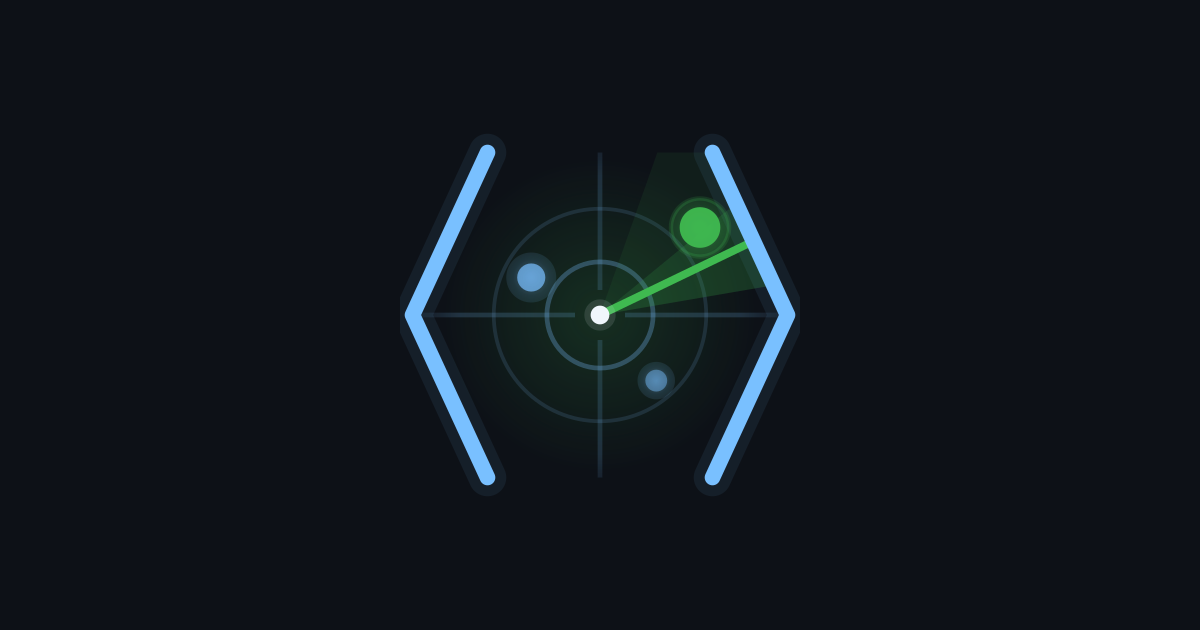
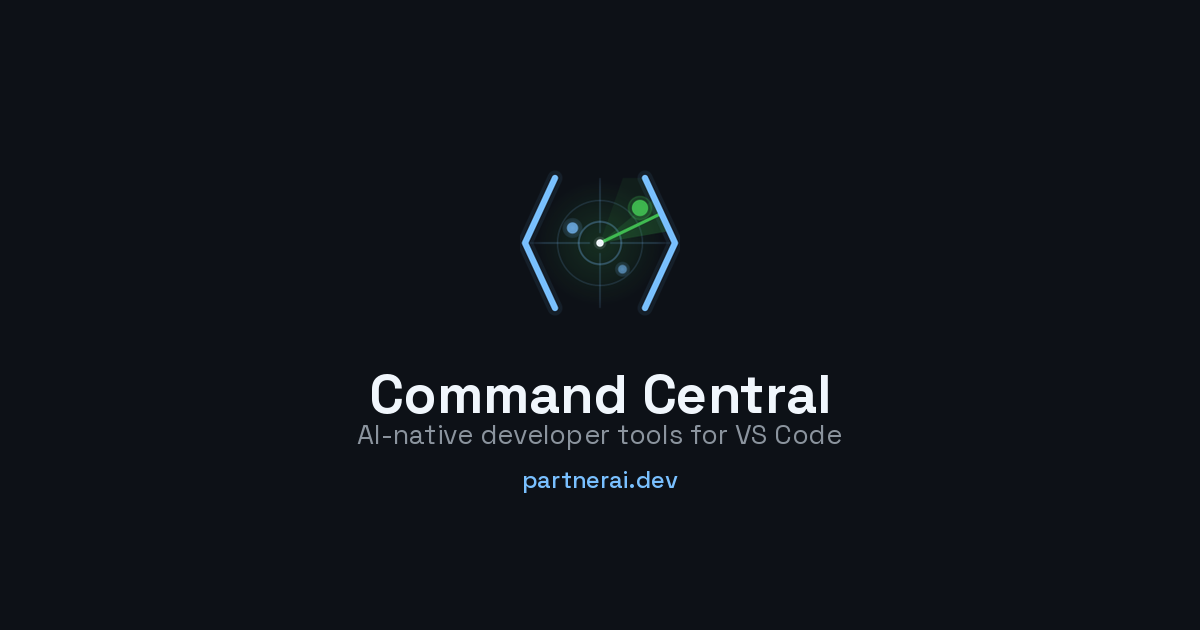
feat: brand typography (Space Grotesk), social preview + og-card with tagline

Changed region(s): [[0.3083, 0.2111, 0.7092, 0.7841]]

diff --git a/docs/TYPOGRAPHY.md b/docs/TYPOGRAPHY.md
@@ -1,0 +1,190 @@
+# Typography — Partner AI Brand Standard
+
+> v1.0 — 2026-02-22. Canonical reference for all Partner AI typography.
+
+## Brand Typeface: Space Grotesk
+
+**Space Grotesk** is the official display and branding typeface for Partner AI and all its products.
+
+- **Source:** [Google Fonts](https://fonts.google.com/specimen/Space+Grotesk)
+- **Designer:** Florian Karsten (derived from Space Mono)
+- **License:** SIL Open Font License 1.1 — free for web, print, marketing, embedding
+- **Variable font:** Yes (weight axis 300–700)
+- **Static weights used:** Light (300), Regular (400), Medium (500), SemiBold (600), Bold (700)
+
+### Why Space Grotesk
+
+Space Grotesk was chosen after evaluating five finalists (Space Grotesk, Geist Sans, Sora, Outfit, IBM Plex Sans) against Partner AI's brand requirements:
+
+1. **Technical DNA.** Born from Space Mono — a monospace coding font. The geometric letterforms carry developer credibility without needing to literally be monospace.
+
+2. **Distinctive character.** The slightly unconventional `a`, `g`, and `R` give it personality in a sea of Inter/Helvetica developer sites. It's opinionated — like an engineering partner with strong (good) opinions about architecture.
+
+3. **Dark-mode native.** Open counters and clean geometry render crisply on #0D1117 backgrounds. Excellent contrast at all sizes.
+
+4. **Works everywhere.** Strong performance in ALL CAPS (`PARTNER AI`), Mixed Case (`Command Central`), and smaller tagline sizes. Holds up from 16px body to 96px hero headlines.
+
+5. **"Partner" + "AI" balance.** Warm enough for "partner" (human, approachable), precise enough for "AI" (technical, engineered). This balance is the hardest thing to get right, and Space Grotesk nails it.
+
+---
+
+## Usage Rules
+
+### Where Space Grotesk appears
+
+| Context | Weight | Size (web) | Notes |
+|---------|--------|------------|-------|
+| "Partner AI" wordmark | Bold (700) | — | Used in logo lockups, social cards |
+| Product names ("Command Central") | Bold (700) | 36–56px | Hero headlines, social previews |
+| Landing page headlines | SemiBold (600) | 32–48px | Section headers, feature titles |
+| Subheadlines / taglines | Regular (400) | 20–28px | Below headlines, card descriptions |
+| Navigation wordmark | Medium (500) | 18–20px | Site header "Partner AI" |
+
+### Where Space Grotesk does NOT appear
+
+- **Body text / paragraphs.** Use the system font stack or Inter for long-form content.
+- **Code samples.** Use a monospace font (JetBrains Mono, Fira Code, etc.).
+- **VS Code UI elements.** The extension inherits VS Code's native theming.
+
+### Casing
+
+- **Product names:** Mixed Case — `Command Central`, `DiffGuard`
+- **Brand name:** Mixed Case — `Partner AI`
+- **Headlines:** Sentence case — `Code changes, sorted by time`
+- **ALL CAPS:** Reserved for short labels, badges, or accent text — `PARTNER AI`, `NEW`
+
+---
+
+## Color Pairings
+
+Space Grotesk on Partner AI's dark palette:
+
+| Role | Color | Hex | Usage |
+|------|-------|-----|-------|
+| Primary text | White | `#F0F6FC` | Headlines, product names |
+| Accent text | Blue | `#79C0FF` | Brand attribution, links, "Partner AI" |
+| Secondary text | Dim | `#8B949E` | Taglines, descriptions |
+| Muted text | Border | `#30363D` | Labels, metadata |
+| Background | Dark | `#0D1117` | All surfaces |
+
+---
+
+## Web Implementation
+
+### Google Fonts (recommended)
+
+```html
+<link rel="preconnect" href="https://fonts.googleapis.com">
+<link rel="preconnect" href="https://fonts.gstatic.com" crossorigin>
+<link href="https://fonts.googleapis.com/css2?family=Space+Grotesk:wght@300;400;500;600;700&display=swap" rel="stylesheet">
+```
+
+### CSS
+
+```css
+:root {
+  --font-brand: 'Space Grotesk', system-ui, -apple-system, sans-serif;
+}
+
+/* Wordmark in navigation */
+.nav-brand {
+  font-family: var(--font-brand);
+  font-weight: 500;
+  font-size: 1.25rem;
+  letter-spacing: -0.01em;
+}
+
+/* Hero headline */
+.hero-title {
+  font-family: var(--font-brand);
+  font-weight: 700;
+  font-size: 3rem;
+  letter-spacing: -0.02em;
+  line-height: 1.1;
+}
+
+/* Section headlines */
+.section-title {
+  font-family: var(--font-brand);
+  font-weight: 600;
+  font-size: 2rem;
+  letter-spacing: -0.01em;
+}
+
+/* Taglines and subtitles */
+.tagline {
+  font-family: var(--font-brand);
+  font-weight: 400;
+  font-size: 1.25rem;
+  letter-spacing: 0;
+}
+```
+
+### Self-Hosting (alternative)
+
+Download from Google Fonts or the [GitHub repo](https://github.com/nicol/spacegrotesk). Host `.woff2` files. Use `font-display: swap` for performance.
+
+---
+
+## Social Preview / OG Card Specs
+
+### GitHub Social Preview (`social-preview.png`)
+- **Size:** 1280 × 640
+- **Safe margins:** 40px all sides
+- **Layout:** Logo (160px) → Title (Space Grotesk Bold 54px, #F0F6FC) → Tagline (Regular 27px, #8B949E) → Brand URL (Medium 24px, #79C0FF)
+- **Background:** #0D1117
+- **Content vertically centered** within safe area, nudged +10px for optical balance
+
+### Open Graph Card (`og-card.png`)
+- **Size:** 1200 × 630
+- **Same layout as social preview**, scaled to fit
+
+### Rendering
+Both cards are generated via Python/Pillow using `.ttf` files from Google Fonts. The generation script lives at `workspace/create_social_preview_final.py`.
+
+---
+
+## Landing Page Application
+
+### Current site: partnerai.dev
+
+Space Grotesk should appear in these locations:
+
+1. **Navigation:** "Partner AI" wordmark — Medium 500, ~18px
+2. **Hero:** Product name "Command Central" — Bold 700, large (48–64px)
+3. **Hero tagline:** Below the product name — Regular 400, ~24px
+4. **Section headers:** "What it does", feature names — SemiBold 600, ~32px
+5. **Feature cards:** Feature titles — Medium 500, ~20px
+
+Body text (feature descriptions, bullet points) should remain in the system font stack or Inter for readability.
+
+---
+
+## Evaluation Notes (for reference)
+
+### Finalists Considered
+
+| Rank | Font | Score | Verdict |
+|------|------|-------|---------|
+| **#1** | **Space Grotesk** | 24/25 | Technical roots, distinctive character, warm + sharp. The pick. |
+| #2 | Geist Sans | 22/25 | Purpose-built for dev contexts. Slightly too "platform," not enough "partner." |
+| #3 | IBM Plex Sans | 20/25 | Trustworthy and mature. Leans enterprise — heavy for a modern tool. |
+| #4 | Sora | 16/25 | Friendly but generic. Lacks technical edge. |
+| #5 | Outfit | 12/25 | Wrong genre — consumer/lifestyle, not dev tools. |
+
+### Key Differentiator
+
+> "Partner AI" in Space Grotesk looks like a tool you'd actually install. "DiffGuard" and "Command Central" look like real tools. In most other fonts, they look like marketing copy.
+
+---
+
+## Future Products
+
+When Partner AI ships new products, they inherit:
+
+- **Space Grotesk Bold** for the product name
+- **Space Grotesk Regular/Medium** for taglines
+- The same color pairings on #0D1117
+- The same social card template (swap product name + tagline)
+
+This ensures visual cohesion across the Partner AI product family while letting each product have its own identity through naming and iconography.
